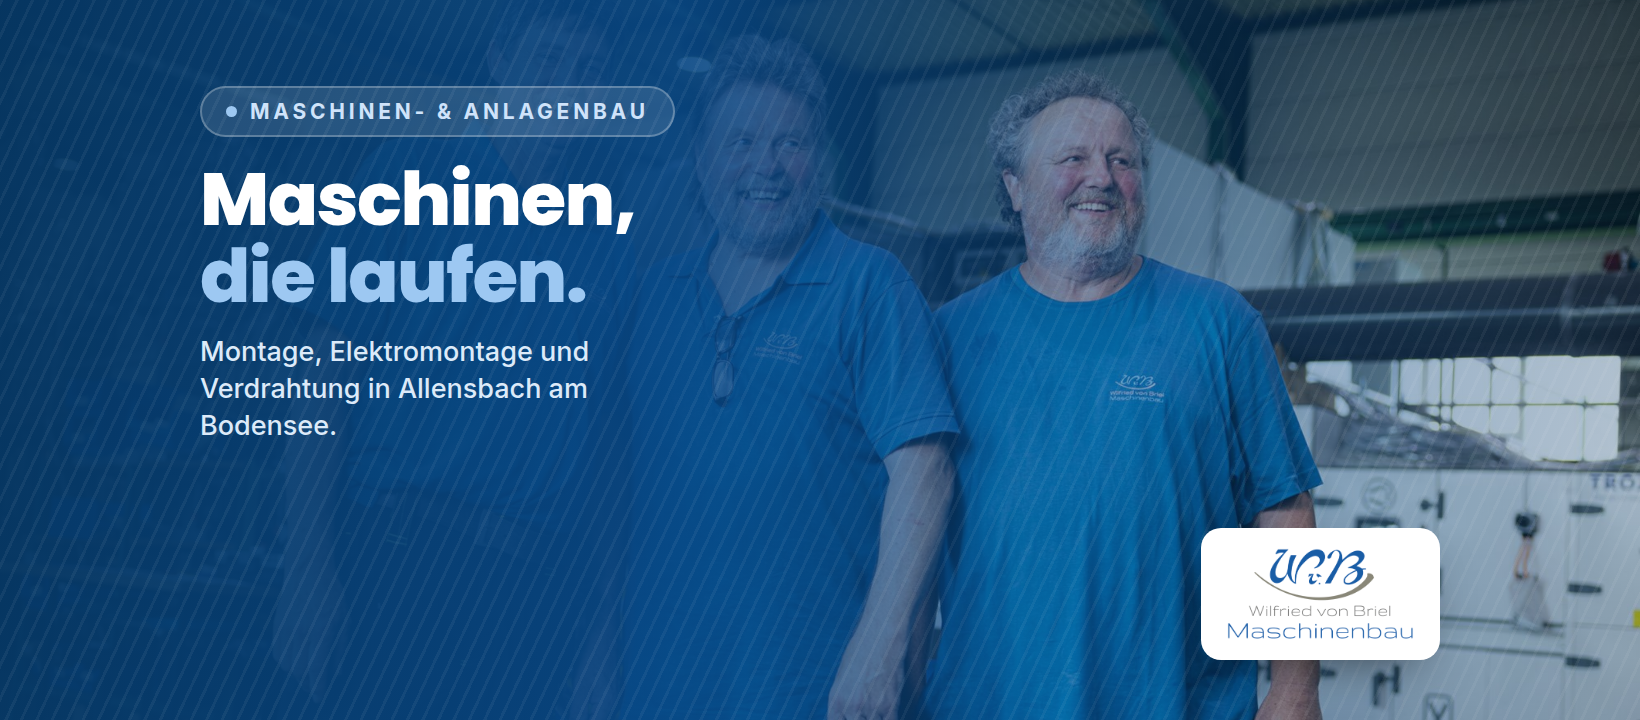
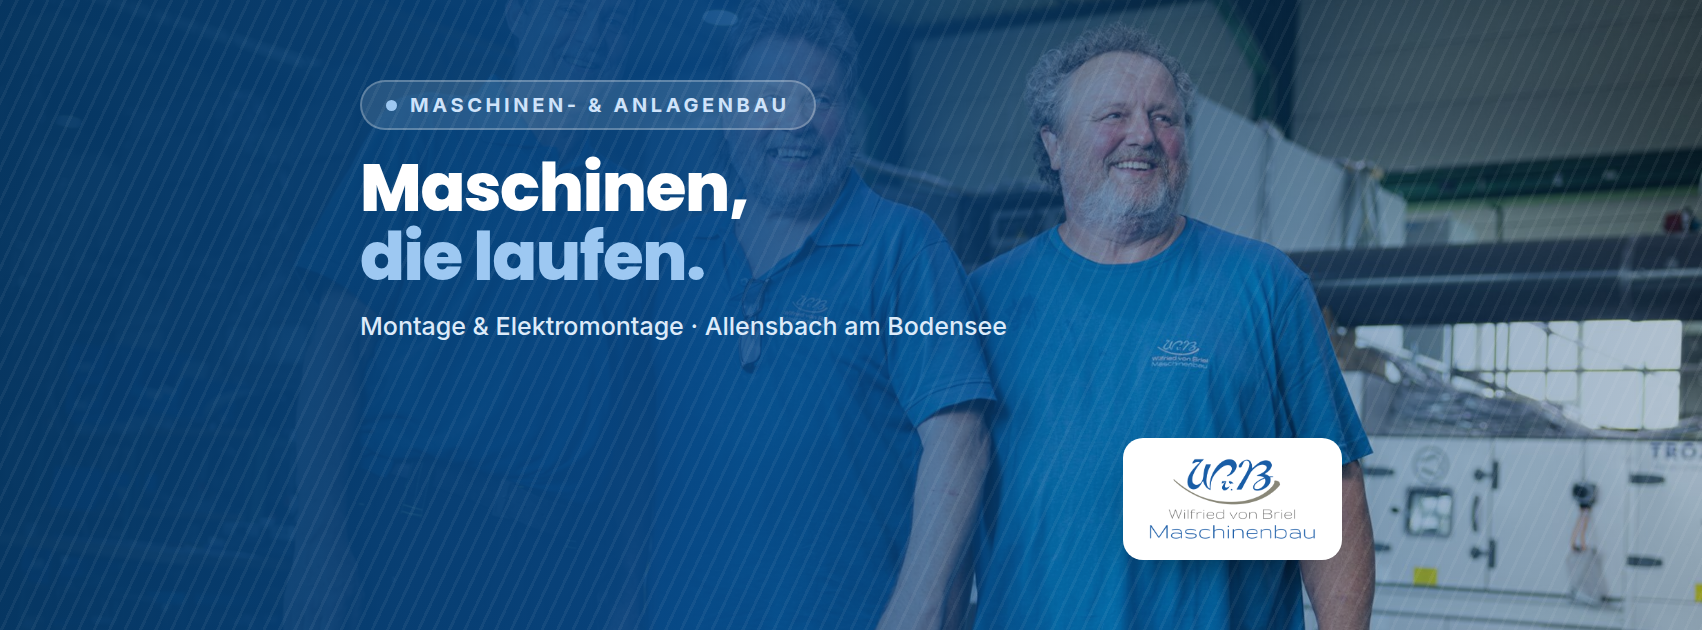
Titelbild auf das Format umstellen, das Facebook wirklich anzeigt
Mein erster Entwurf lag in 820x360 (2,28:1). Facebook zeigt das Titelbild
aber in 2,7:1 - die Ansicht im Test misst 1905x700, also 2,72:1. Dadurch
skaliert Facebook auf die Breite und schneidet rund 16 Prozent der Hoehe
weg, oben und unten je etwa acht Prozent; die obere Zeile war angeschnitten.

Beide Titelbilder liegen jetzt in 1702x630, also 851x315 in doppelter
Aufloesung. Typo und Abstaende sind auf die geringere Hoehe angepasst, der
Untertitel der Firmen-Variante steht in einer Zeile statt zwei.

Seitlich jetzt 360px Rand: am Handy zeigt Facebook nur die mittleren
1120px, damit bleiben 26px Luft statt 4. Die Pruefung im Render deckt
Handy-Ausschnitt, vertikalen Beschnitt und den vom Profilbild ueberdeckten
Bereich unten links ab - alle Zonen eingehalten.

Claude-Session: https://claude.ai/code/session_01UjkRFnuUZ2mhEfYm4W489Y

diff --git a/facebook/index.html b/facebook/index.html
@@ -14,8 +14,9 @@
    FORMATE (jeweils in doppelter Auflösung gerendert, Facebook skaliert selbst):
    · Profilbild   1000×1000  – Facebook zeigt es als KREIS. Alles Wichtige
                                liegt deshalb im inneren Kreis, nicht in den Ecken.
-   · Titelbild    1640×720   – entspricht 820×360 in doppelter Auflösung.
-                               Am Desktop sichtbar: 820×312, am Handy 640×360.
+   · Titelbild    1702×630   – entspricht 851×315 in doppelter Auflösung.
+                               Genau dieses Verhältnis (2,7:1) zeigt Facebook am
+                               Desktop an; am Handy werden die Seiten beschnitten.
                                Darum liegt der Inhalt in der mittleren Zone,
                                und unten links bleibt Platz: dort schiebt sich
                                am Desktop das Profilbild über das Titelbild.
@@ -45,7 +46,7 @@ img, svg { display: block; }
 .item__hint { text-transform: none; font-weight: 500; color: #7c8894; letter-spacing: 0; }
 .item--preview .canvas { transform: scale(.4); transform-origin: top left; }
 .item--preview[data-kind="profil"] { width: 400px; height: 400px; }
-.item--preview[data-kind="titel"] { width: 656px; height: 288px; }
+.item--preview[data-kind="titel"] { width: 681px; height: 252px; }
 
 .canvas { position: relative; overflow: hidden; color: #fff; }
 
@@ -62,7 +63,7 @@ img, svg { display: block; }
 
 /* ---------- Titelbild ---------- */
 .canvas--titel {
-  width: 1640px; height: 720px;
+  width: 1702px; height: 630px;
   background: linear-gradient(105deg, var(--brand-900) 0%, var(--brand-deep) 46%, var(--brand) 100%);
 }
 .titel__foto { position: absolute; inset: 0; z-index: 1; }
@@ -79,16 +80,16 @@ img, svg { display: block; }
 /* Inhalt bleibt in der Zone, die auch am Handy sichtbar ist */
 .titel__inner {
   position: absolute; z-index: 4; inset: 0;
-  /* oben ausgerichtet: unten links ueberdeckt am Desktop das Profilbild einen
-     Teil des Titelbilds, dieser Bereich bleibt textfrei. Seitlich 200px, damit
-     am Handy (mittlere 1280px sichtbar) nichts abgeschnitten wird. */
-  padding: 86px 200px 60px 200px;
-  display: flex; align-items: flex-start; justify-content: space-between; gap: 60px;
+  /* Seitlich 300px: am Handy zeigt Facebook nur die mittleren ~1120px.
+     Oben/unten je 70-80px Luft, weil andere Ansichten etwas anders schneiden.
+     Unten links bleibt Platz fuer das Profilbild, das sich darueber schiebt. */
+  padding: 80px 360px 70px 360px;
+  display: flex; align-items: flex-start; justify-content: space-between; gap: 50px;
 }
-.titel__text { max-width: 900px; }
+.titel__text { max-width: 700px; }
 .eyebrow {
   display: inline-flex; align-items: center; gap: 13px;
-  font: 700 21px/1 var(--body); letter-spacing: .18em; text-transform: uppercase; color: #cfe3fa;
+  font: 700 20px/1 var(--body); letter-spacing: .18em; text-transform: uppercase; color: #cfe3fa;
   padding: 13px 24px; border-radius: 999px;
   background: rgba(255,255,255,.12); border: 2px solid rgba(255,255,255,.26);
   margin-bottom: 24px;
@@ -96,23 +97,23 @@ img, svg { display: block; }
 .eyebrow b { width: 11px; height: 11px; border-radius: 50%; background: var(--sky); }
 .titel__head {
   font-family: var(--display); font-weight: 800;
-  font-size: 74px; line-height: 1.04; letter-spacing: -.02em;
+  font-size: 66px; line-height: 1.05; letter-spacing: -.02em;
 }
 .titel__head em { font-style: normal; color: var(--sky); display: block; }
-.titel__sub { margin-top: 18px; font: 500 27px/1.38 var(--body); color: #dceaf9; max-width: 28ch; }
+.titel__sub { margin-top: 16px; font: 500 25px/1.36 var(--body); color: #dceaf9; max-width: 42ch; }
 .titel__stelle {
   display: inline-flex; align-items: center; gap: 14px;
-  margin-top: 26px; padding: 18px 28px; border-radius: 999px;
-  background: #fff; color: var(--brand); font: 700 25px/1 var(--body);
+  margin-top: 24px; padding: 17px 26px; border-radius: 999px;
+  background: #fff; color: var(--brand); font: 700 24px/1 var(--body);
 }
 .titel__logo {
   flex: none; align-self: flex-end; background: #fff; border-radius: 20px; padding: 20px 26px;
   box-shadow: 0 20px 50px -22px rgba(0,0,0,.6);
 }
-.titel__logo img { height: 92px; width: auto; }
+.titel__logo img { height: 82px; width: auto; }
 /* Unten links schiebt sich am Desktop das Profilbild über das Titelbild –
    dieser Bereich bleibt frei von Text. */
-.titel__frei { position: absolute; left: 0; bottom: 0; width: 430px; height: 250px; z-index: 2; }
+.titel__frei { position: absolute; left: 0; bottom: 0; width: 460px; height: 250px; z-index: 2; }
 </style>
 </head>
 <body>
@@ -154,7 +155,7 @@ const ASSETS = [
         <div class="titel__text" data-safe>
           <span class="eyebrow"><b></b>Maschinen- &amp; Anlagenbau</span>
           <div class="titel__head">Maschinen,<em>die laufen.</em></div>
-          <p class="titel__sub">Montage, Elektromontage und Verdrahtung in ${FIRMA.ort}.</p>
+          <p class="titel__sub">Montage &amp; Elektromontage · ${FIRMA.ort}</p>
         </div>
         <div class="titel__logo" data-safe>
           <img src="../assets/logo.png" alt="${FIRMA.name}" data-logo />

diff --git a/facebook/README.md b/facebook/README.md
@@ -11,8 +11,8 @@ Karriereseite – Profil- und Titelbild passen dadurch zueinander.
 |---|---|---|
 | `png/profilbild-monogramm.png` | 1000 × 1000 | **Empfehlung** als Profilbild |
 | `png/profilbild.png` | 1000 × 1000 | Alternative mit dem vollständigen Logo |
-| `png/titelbild-firma.png` | 1640 × 720 | Titelbild, dauerhaft nutzbar |
-| `png/titelbild-stelle.png` | 1640 × 720 | Titelbild für die Zeit der Stellenanzeige |
+| `png/titelbild-firma.png` | 1702 × 630 | Titelbild, dauerhaft nutzbar |
+| `png/titelbild-stelle.png` | 1702 × 630 | Titelbild für die Zeit der Stellenanzeige |
 
 ### Warum zwei Profilbilder?
 
@@ -22,19 +22,27 @@ bei dieser Größe zu einem grauen Streifen verschwimmen. Das **Monogramm**
 bleibt erkennbar – deshalb die Empfehlung. Beide Varianten sind aus derselben
 Logodatei aufgebaut, nichts wurde nachgezeichnet oder umgefärbt.
 
-### Warum 1640 × 720 beim Titelbild?
+### Warum 1702 × 630 beim Titelbild?
 
-Das ist 820 × 360 in doppelter Auflösung – Facebook rechnet herunter und das
-Bild bleibt auf Retina-Displays scharf. Beim Aufbau sind drei Zonen beachtet,
-die Facebook unterschiedlich beschneidet:
+Das ist **851 × 315 in doppelter Auflösung** – genau das Seitenverhältnis
+(2,7 : 1), in dem Facebook das Titelbild am Desktop anzeigt. Die doppelte
+Auflösung hält es auf Retina-Displays scharf.
 
-- **Handy** zeigt nur die mittleren ~1280 px der Breite → Text und Logo liegen
-  innerhalb dieses Bereichs.
-- **Desktop** zeigt 820 × 312 statt 360 → oben und unten bleiben je ~48 px frei.
+Ein erster Entwurf lag in 820 × 360 (2,28 : 1). Das ist eine ältere Vorgabe –
+Facebook skaliert ein solches Bild auf die Breite und schneidet dann rund 16 %
+der Höhe weg, oben und unten je etwa 8 %. Im Test war dadurch die obere Zeile
+angeschnitten.
+
+Beim Aufbau sind drei Zonen beachtet, die Facebook unterschiedlich beschneidet:
+
+- **Handy** zeigt nur die mittleren ~1120 px der Breite (Anzeige 640 × 360) →
+  Text und Logo liegen mit Abstand innerhalb dieses Bereichs.
+- **Oben und unten** bleiben je ~60 px frei, weil einzelne Ansichten leicht
+  anders beschneiden.
 - **Unten links** schiebt sich am Desktop das Profilbild über das Titelbild →
   dieser Bereich bleibt textfrei.
 
-Der Render prüft diese drei Zonen bei jedem Durchlauf.
+Der Render prüft alle drei Zonen bei jedem Durchlauf und meldet Verstöße.
 
 ## Bio (max. 255 Zeichen)
 
